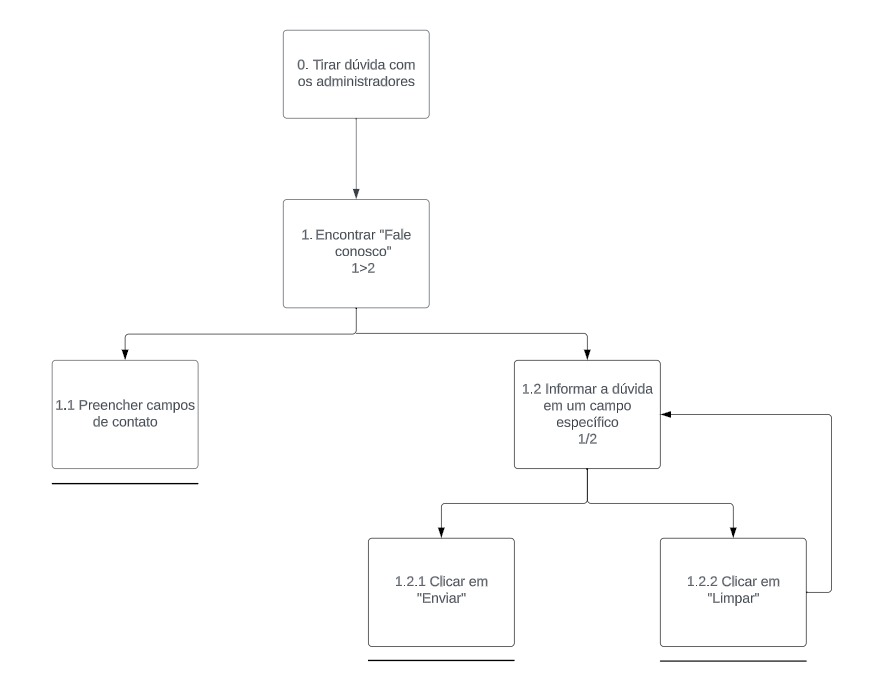
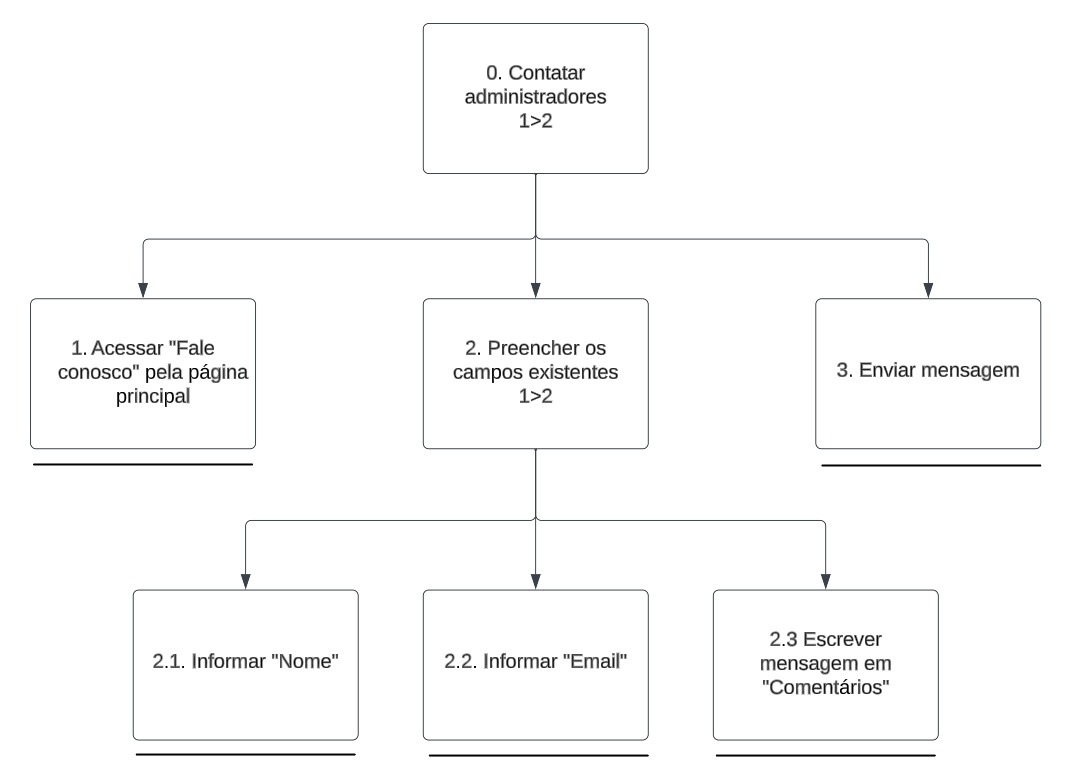
reestrutura o hta e goms

diff --git a/docs/analise_de_requisitos/analise_de_tarefas/hta.md b/docs/analise_de_requisitos/analise_de_tarefas/hta.md
@@ -177,11 +177,11 @@ Nesta tarefa, o objetivo do usuário é avaliar as midias que já foram consumid
 
 <font size="2"><p style="text-align: center">Fonte: [Victor Hugo](https://github.com/ViictorHugoo), 2023</p></font>
 
-### Contatar administrador sobre dúvidas
+### Contatar administradores
 
-Nessa tarefa, o usuário tem como objetivo acessar um painel para solicitar uma resposta a um administrador do site referente a uma dúvida que não tenha resposta no próprio site.
+Nessa tarefa, o usuário tem como objetivo acessar um painel para enviar uma mensagem aos administradores do site.
 
-<font size="2"><p style="text-align: center">Figura 8: Descrição GOMS da tarefa "Contatar administrador sobre dúvidas"</p></font>
+<font size="2"><p style="text-align: center">Figura 8: Descrição GOMS da tarefa "Contatar administrador"</p></font>
 
 ![GOMSContatoAdmin](../../assets/analise_de_requisitos/HTAContatoAdmin.png)
 
@@ -191,12 +191,13 @@ Nessa tarefa, o usuário tem como objetivo acessar um painel para solicitar uma 
 
 | Objetivos / Operações                               | Relações | Problemas e Recomendações                                                                                                                                              |
 | --------------------------------------------------- | -------- | ---------------------------------------------------------------------------------------------------------------------------------------------------------------------- |
-| Tirar dúvida com os administradores                     | | |
-| 1 Encontrar "Fale conosco"         |   1 > 2   | feedback: o usuário deve ser redirecionado a página "Fale conosco" <br> plano: ao acessar a página o usuário é capaz de enviar a sua dúvida  |
-| 1.1 Preencher campos de contato     | |  |
-| 1.2 Informar a dúvida em um campo específico     ||
-| 1.2.1  Clicar em "Enviar"             |  1 / 2    | plano: o usuário deve poder enviar a sua dúvida  |
-| 1.2.2 Clicar em "Limpar"    | | plano: o usuário deve poder limpar o campo sobre a sua dúvida |
+| Contatar administradores                     | 1 > 2 |  plano: encontrar um meio de contato, inserir informações relevantes e enviar a sua mensagem |
+| 1. Acessar "Fale conosco" pela página principal         |  | feedback: o usuário deve ser redirecionado a página "Fale conosco" <br> plano: ao acessar a página o usuário é capaz de enviar a sua mensagem  |
+| 2. Preencher os campos existentes     | 1 > 2 | plano: inserir o nome, email e depois a mensagem |
+| 2.1. Informar "Nome"     ||
+| 2.2. Informar "Email"             |  |  |
+| 2.3. Escrever mensagem em "Comentários"     | |  |
+| 3. Clicar em "Enviar"    | | feedback: aparecer uma mensagem de que o envio foi bem sucedido |
 
 
 <font size="2"><p style="text-align: center">Fonte: [Gustavo França](https://github.com/gustavofbs), 2023</p></font>
@@ -225,3 +226,4 @@ Nessa tarefa, o usuário tem como objetivo acessar um painel para solicitar uma 
 | 1.2    | 11/10/2023 | Adição dos diagramas HTA                 | [Harryson Martins](https://github.com/harry-cmartin) e [Gustavo França](https://github.com/gustavofbs) | [Victor Hugo](https://github.com/ViictorHugoo) |
 | 1.3    | 15/10/2023 | Corrige introdução e metodologia         | [Gustavo França](https://github.com/gustavofbs) | [Ana Catarina](https://github.com/an4catarina) |
 | 1.4    | 22/10/2023 | Adição de Avaliar Midia         | [Victor Hugo](https://github.com/ViictorHugoo) | [Maria Alice](https://github.com/Maliz-30) |
+| 1.5    | 23/10/2023 | Adição de Contatar Administradores         | [Gustavo França](https://github.com/gustavofbs) | [Victor Hugo](https://github.com/ViictorHugoo) |

diff --git a/docs/analise_de_requisitos/analise_de_tarefas/goms.md b/docs/analise_de_requisitos/analise_de_tarefas/goms.md
@@ -141,3 +141,4 @@ Nessa tarefa, o usuário tem como objetivo acessar um painel para solicitar uma 
 | 1.2    | 15/10/2023 | Corrige introdução e metodologia                     | [Gustavo França](https://github.com/gustavofbs) | [Ana Catarina](https://github.com/an4catarina) |
 |1.3     | 16/10/2023 | Conserto das imagens GOMS | [Harryson Martins](https://github.com/harry-cmartin) | [Pedro Henrique](https://github.com/pedro-hsf)|
 |1.3     | 16/10/2023 | Adição de Avaliar midia   | [Victor Hugo](https://github.com/ViictorHugoo)       | [Maria Alice](https://github.com/Maliz-30)|
+| 1.5    | 23/10/2023 | Adição de Contatar Administradores         | [Gustavo França](https://github.com/gustavofbs) | [Victor Hugo](https://github.com/ViictorHugoo) |
